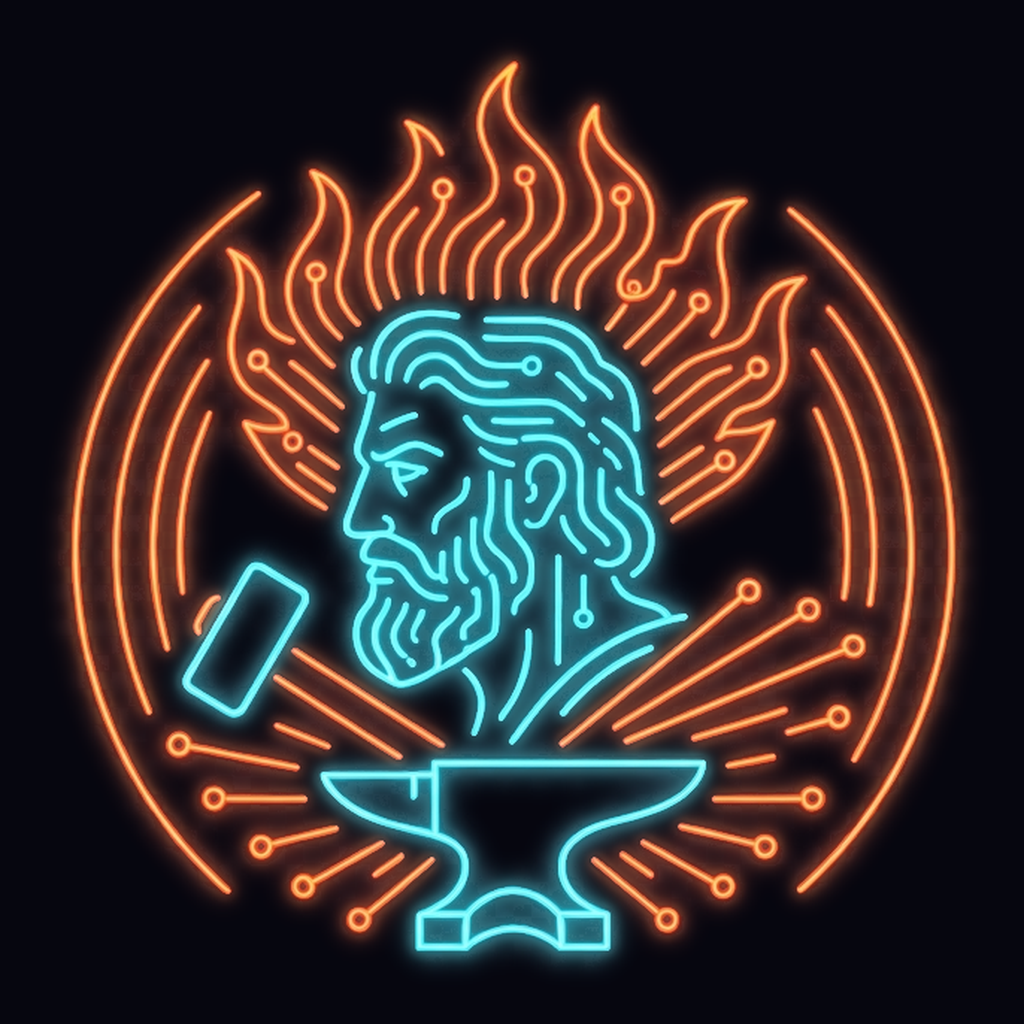
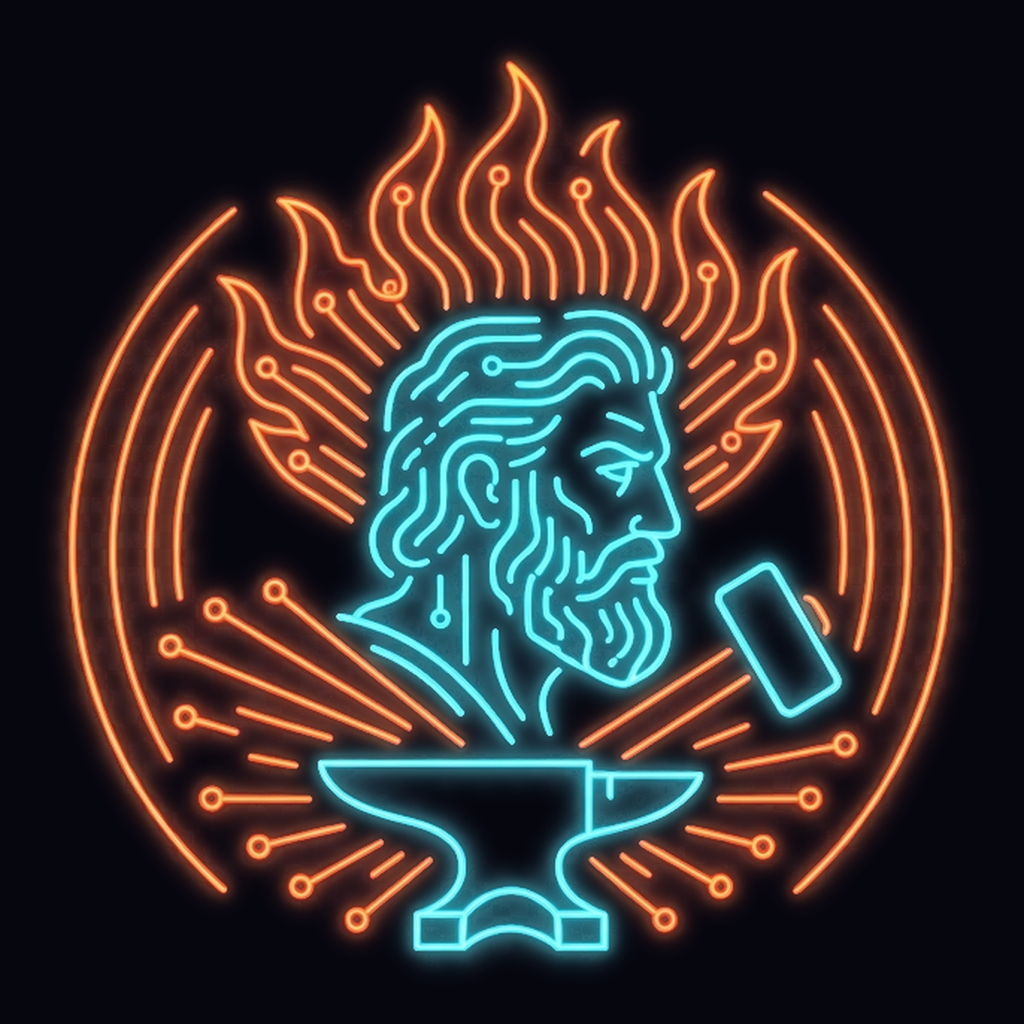
docs: embed the six new god marks (Hera…Hestia) (#63)
* docs: embed the six new god marks (Hera…Hestia); refresh changed marks

The six new keyed PNGs from codex docs/brand (hera, poseidon, ares, athena,
aphrodite, hestia) embedded under their prompt sections — brand-prompts now
carries all 15 marks. Also re-copies marks whose upstream files changed in the
right-facing normalization pass.

* docs: point brand-prompts at the codex UX standards doc

---------

diff --git a/docs/brand-prompts.md b/docs/brand-prompts.md
@@ -7,6 +7,10 @@ the ui-theme --background), clean minimal vector lines, soft glow,
 centered emblem, no text. Accents map to the theme palette so the set
 reads as one system.
 
+> **UI integration:** how these accents map to each service's frontend tokens is specified in
+> the codex repo → [`docs/ux-standards.md`](https://github.com/vezril/codex/blob/main/docs/ux-standards.md)
+> (shared cyberpunk base + per-service accent recipe).
+
 | Service | God | Accent | Motif |
 | --- | --- | --- | --- |
 | dionysus | Dionysus | magenta #FF30D3 (--accent) | grape clusters + vine circuit-wreath |
@@ -134,6 +138,8 @@ reads as one system.
 
 ## Hera
 
+![Hera](brand/hera.png)
+
 > Cyberpunk neon line-art logo of Hera, queen of the Greek gods, regal
 > female profile in glowing cyan circuit-linework, tall imperial diadem
 > rendered as rose-gold circuit traces, a slender scepter tipped with a
@@ -144,6 +150,8 @@ reads as one system.
 
 ## Poseidon
 
+![Poseidon](brand/poseidon.png)
+
 > Cyberpunk neon line-art logo of Poseidon, Greek god of the sea, strong
 > bearded profile in glowing cyan circuit-linework, a bold trident in
 > deep sapphire neon rising beside the head, cresting wave contours as
@@ -153,6 +161,8 @@ reads as one system.
 
 ## Ares
 
+![Ares](brand/ares.png)
+
 > Cyberpunk neon line-art logo of Ares, Greek god of war, hard-edged
 > profile wearing a crested Corinthian helm in glowing cyan
 > circuit-linework, the crest and cheek guards traced in blood-crimson
@@ -161,6 +171,8 @@ reads as one system.
 > vector lines with a soft neon glow, centered emblem, no text
 
 ## Athena
+
+![Athena](brand/athena.png)
 
 > Cyberpunk neon line-art logo of Athena, Greek goddess of wisdom and
 > strategy, composed female profile in glowing cyan circuit-linework
@@ -172,6 +184,8 @@ reads as one system.
 
 ## Aphrodite
 
+![Aphrodite](brand/aphrodite.png)
+
 > Cyberpunk neon line-art logo of Aphrodite, Greek goddess of love and
 > beauty, graceful female profile in glowing cyan circuit-linework with
 > flowing hair, a blooming rose rendered in soft coral-pink circuit
@@ -181,6 +195,8 @@ reads as one system.
 > glow, centered emblem, no text
 
 ## Hestia
+
+![Hestia](brand/hestia.png)
 
 > Cyberpunk neon line-art logo of Hestia, Greek goddess of the hearth,
 > serene hooded female profile in glowing cyan circuit-linework, a
